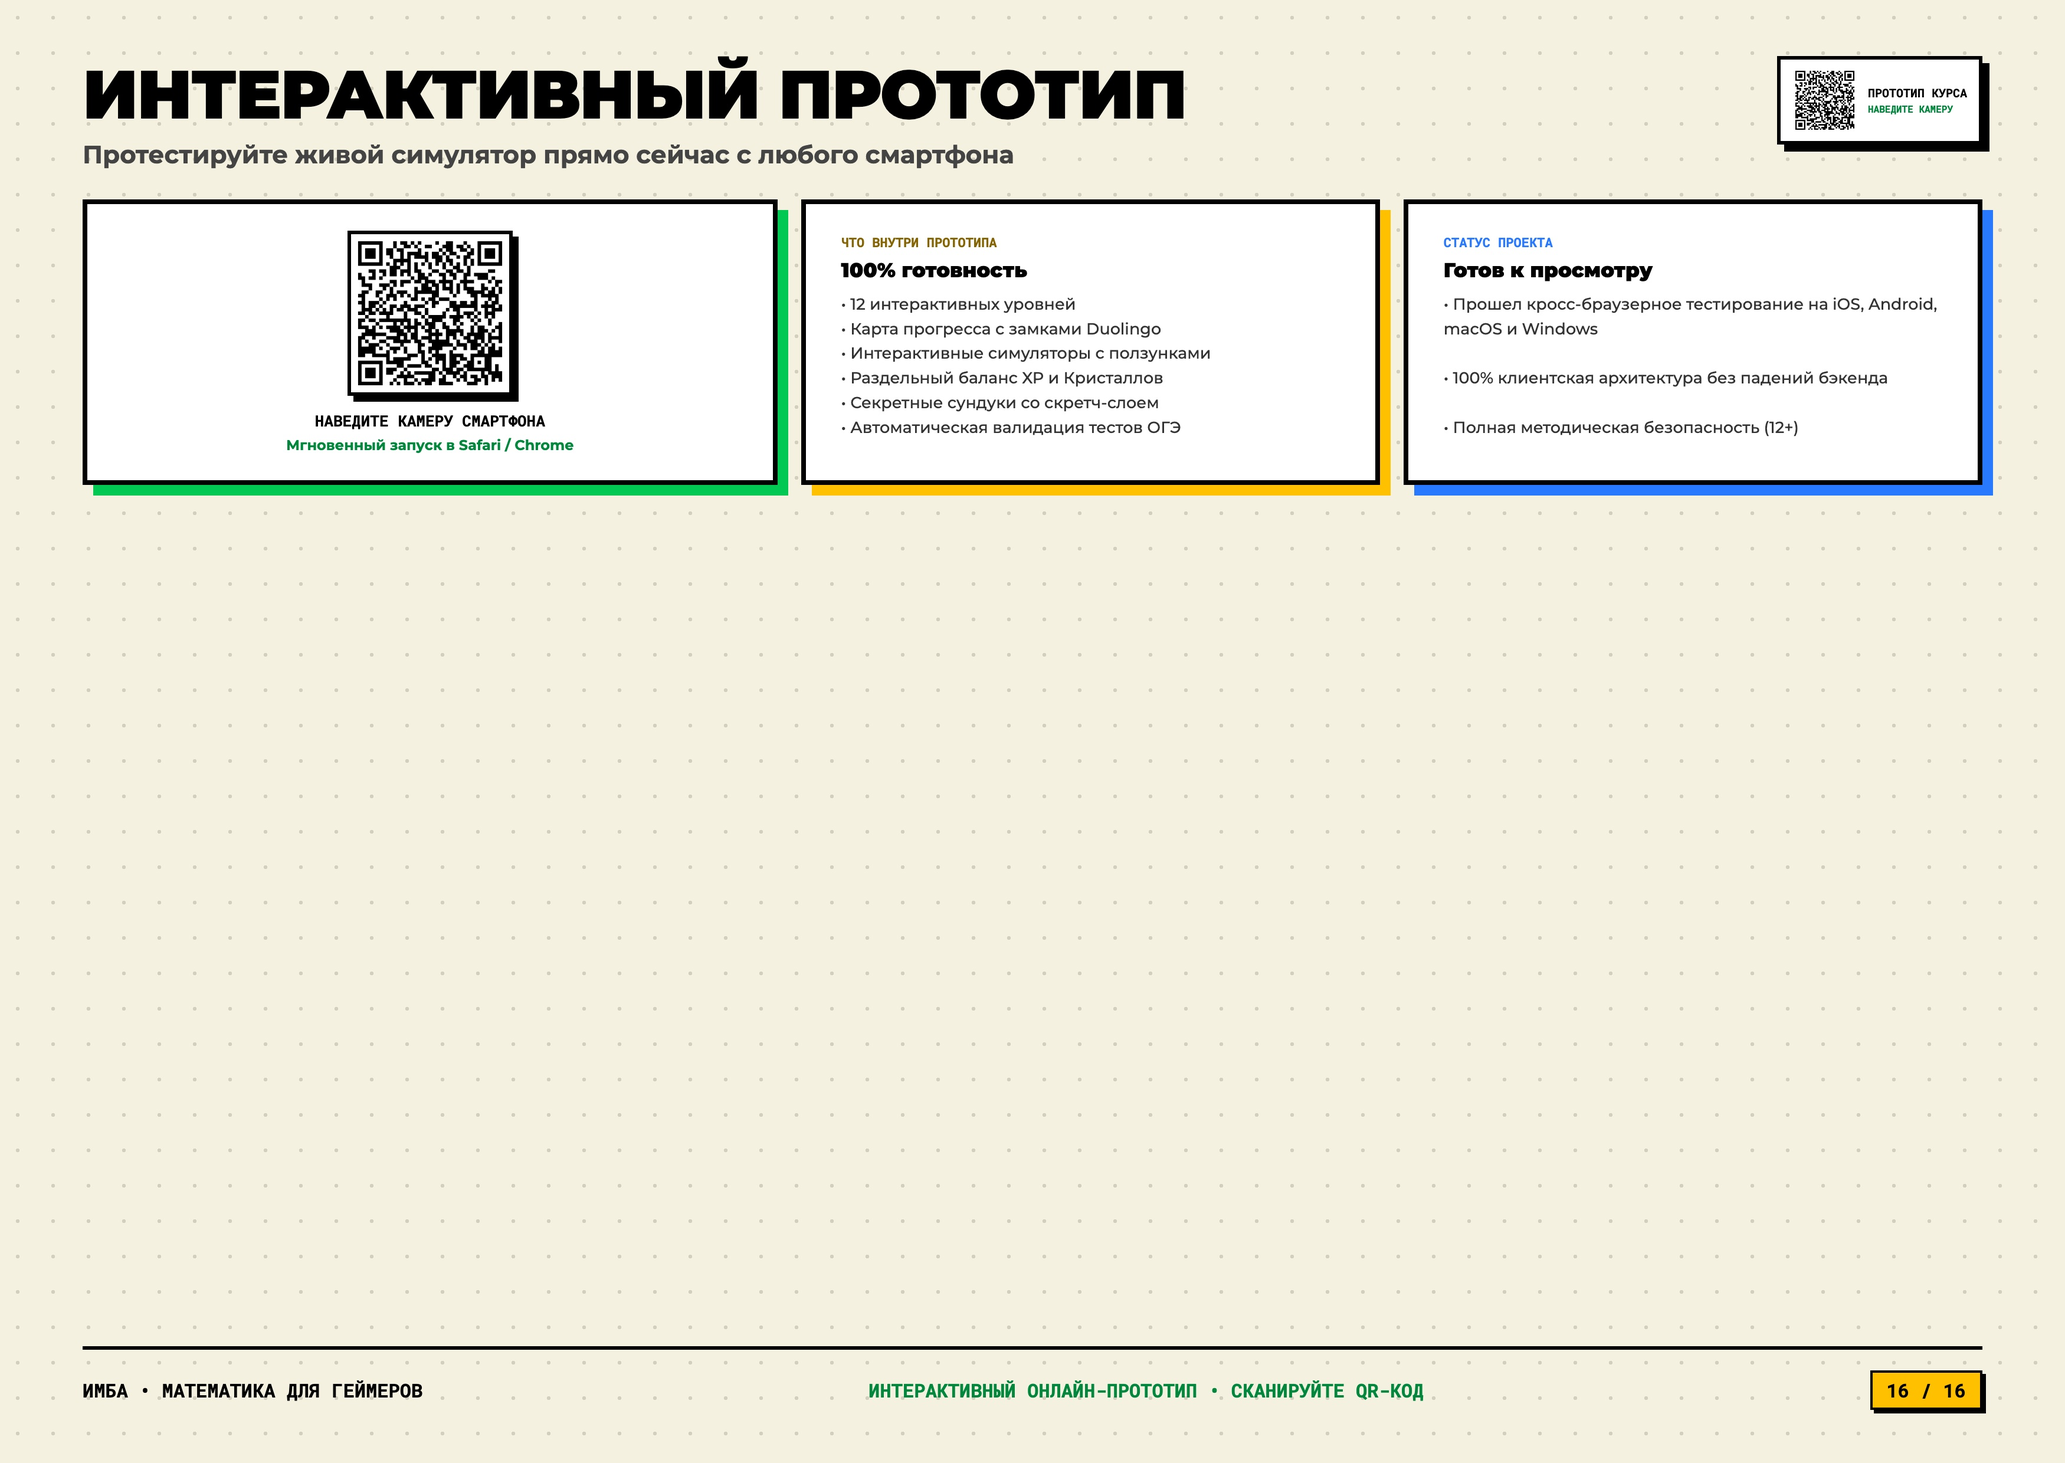
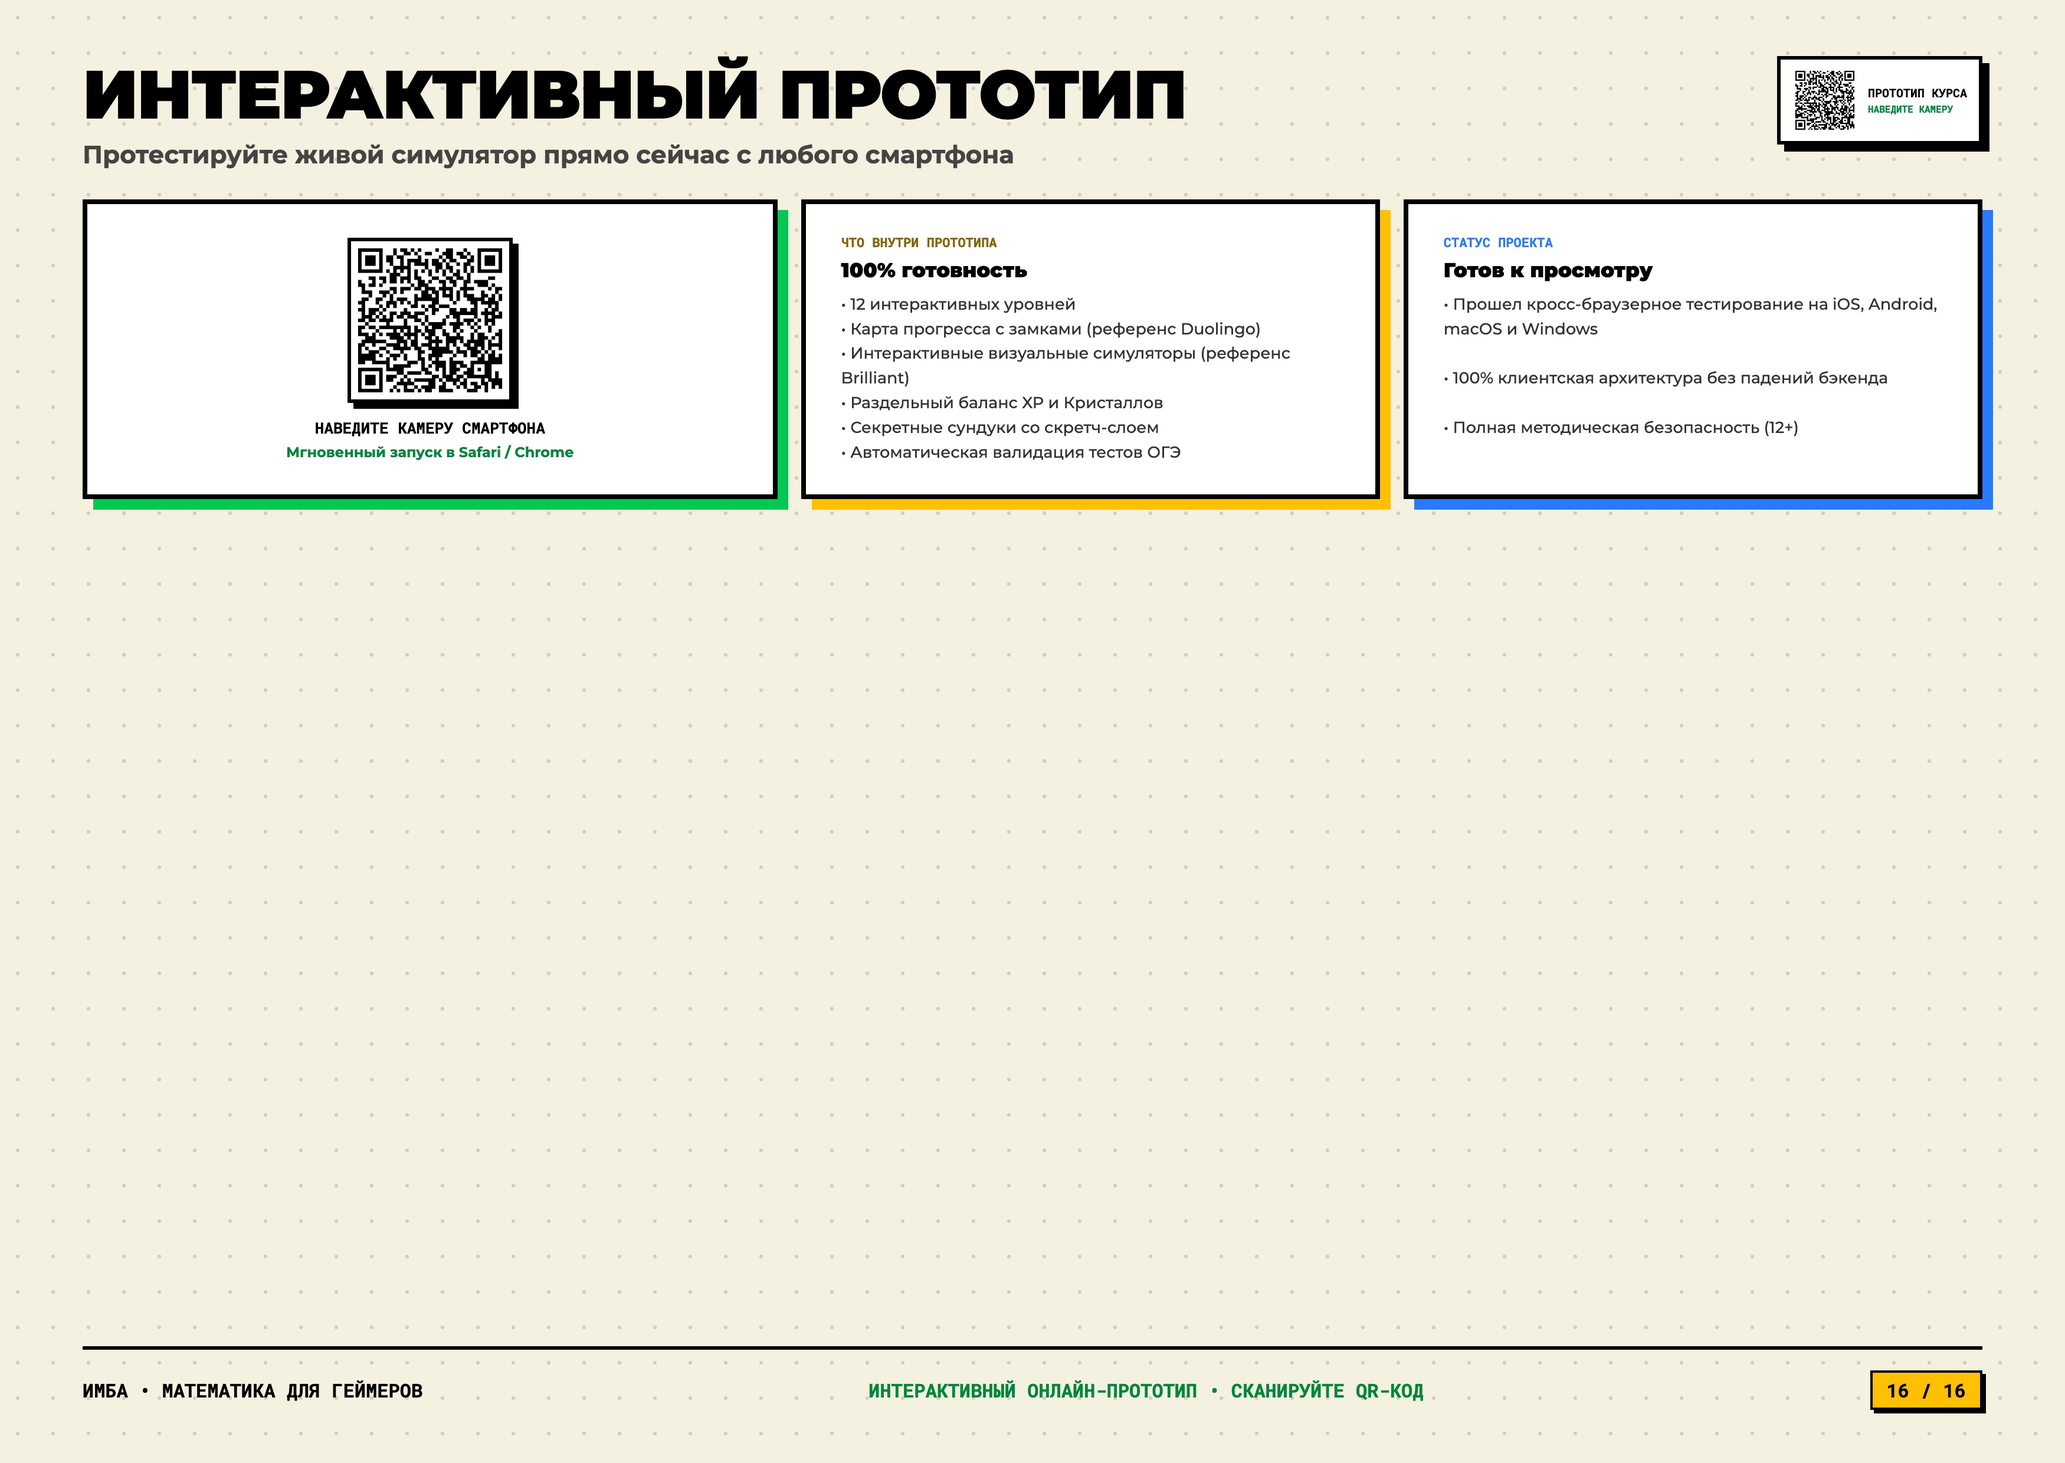
fix: strictly separate references (Duolingo & Brilliant) from pedagogical methodology

Changed region(s): [[0.0311, 0.1552, 0.9654, 0.3726]]

diff --git a/SPEAKER_GUIDE.md b/SPEAKER_GUIDE.md
@@ -10,8 +10,8 @@
 > *Альтернатива:* **ИМБА — математика и экономика для геймеров (ОГЭ)** *(51 символ)*
 
 ### Поле «Описание проекта» (лимит строго от 200 до 400 символов):
-> «ИМБА — образовательный веб-тренажер для подготовки к ОГЭ по математике через разбор скрытых алгоритмов видеоигр (лутбоксы, крафт, рейды). Проект выполнен в эстетике нео-брутализма с контрастной функциональной палитрой. Методология опирается на референсы Duolingo (геймификация и путь прогресса) и Brilliant (интерактивные симуляции). Включает 12 интерактивных уровней и веб-прототип.»  
-> *(Длина: ровно 388 символов с пробелами — строго попадает в диапазон 200–400 символов).*
+> «ИМБА — образовательный веб-тренажер для подготовки к ОГЭ по математике через разбор скрытых алгоритмов видеоигр (лутбоксы, крафт, рейды). Проект выполнен в эстетике нео-брутализма. В основе методики — игровой реверс-инжиниринг и деятельностное обучение. В качестве продуктовых референсов взяты Duolingo (геймификация) и Brilliant (интерактивные симуляции). Включает 12 модулей и веб-прототип.»  
+> *(Длина: ровно **392 символа** с пробелами — строго попадает в лимит 200–400 символов).*
 
 ### Поле «Выберите теги»:
 * Образовательный дизайн
@@ -33,7 +33,7 @@
 * **Главный тезис:** Математика как легальный чит-код и инструмент победы в играх, а не школьная повинность.
 * **Ключевые тезисы:**
   * Веб-практикум для 7–9 классов: деконструкция алгоритмов популярных игр (лутбоксы, крафт, рейды, баллистика) для органичной подготовки к ОГЭ.
-  * Референсы: Duolingo (геймификация и трекинг) и Brilliant (интерактивные визуальные симуляции).
+  * Продуктовые референсы: Duolingo (геймификация и путь прогресса) и Brilliant (визуальные интерактивные симуляторы).
   * Масштаб: 3 раздела, 12 интерактивных модулей, 100% практический формат в браузере.
 * **Что показывать / Артефакт:** В правом верхнем углу расположен QR-код — предложить комиссии навести камеру смартфона, чтобы открыть живой симулятор во время доклада.
 
@@ -49,13 +49,13 @@
 
 ---
 
-### СЛАЙД 03: Референсы и методология
-* **Главный тезис:** Синергия лучших мировых практик Duolingo и Brilliant в нео-бруталистской эстетике.
+### СЛАЙД 03: Продуктовые референсы
+* **Главный тезис:** Анализ лучших мировых практик EdTech: геймификация Duolingo и визуальные симуляции Brilliant.
 * **Ключевые тезисы:**
   * Референс Duolingo: изометрическая карта прогресса, последовательное открытие уровней замками, раздельные валюты XP и Кристаллы.
-  * Референс Brilliant: отказ от пассивных видеолекций в пользу прямого манипулирования интерактивными объектами и вывода правил своими руками.
+  * Референс Brilliant: отказ от пассивных видеолекций — обучение через интерактивные стенды с прямым манипулированием объектами.
   * Стилистика Neobrutalism: высокий контраст, черные рамки 8px, жесткие тени 18px, функциональная цветовая кодировка разделов без визуального шума.
-* **Что показывать / Артефакт:** Карточки методологического переноса механик Duolingo и Brilliant в образовательный продукт.
+* **Что показывать / Артефакт:** Карточки продуктового анализа механик Duolingo и Brilliant.
 
 ---
 
@@ -112,14 +112,14 @@
 
 ---
 
-### СЛАЙД 09: Педагогический цикл урока
-* **Главный тезис:** 4-шаговый сценарий каждого модуля: от игрового азарта к безошибочному решению ОГЭ.
+### СЛАЙД 09: Педагогическая методология
+* **Главный тезис:** Методология: игровой реверс-инжиниринг и 4-шаговый цикл деятельностного обучения.
 * **Ключевые тезисы:**
-  * Шаг 1 (Опыт / Дилемма): провокационный кейс: «Слил 10 кейсов без ножа. В чем обман?» Без заумной теории.
-  * Шаг 2 (Стекло / Модель): разбор скрытого алгоритма разработчиков: формула вероятности и матожидание.
-  * Шаг 3 (Действие / Симулятор): интерактивный ползунок шанса и симуляция 1 000 дропов с динамическим графиком.
-  * Шаг 4 (Закрепление / ОГЭ): решение реальной задачи экзамена без подсказок, автоматическая проверка и награда XP/Gems.
-* **Что показывать / Артефакт:** Схема 4 тактов урока (Опыт → Формула → Симулятор → ОГЭ).
+  * Шаг 1 (Опыт / Игровая дилемма): провокационный кейс: «Слил 10 кейсов без ножа. В чем обман?» Без заумной теории на старте.
+  * Шаг 2 (Деконструкция / Модель): разбор скрытого алгоритма разработчиков: формула вероятности и матожидание.
+  * Шаг 3 (Действие / Эксперимент): интерактивный ползунок шанса и симуляция 1 000 дропов с динамическим графиком сходимости.
+  * Шаг 4 (Валидация / ОГЭ): решение реальной задачи экзамена без подсказок, автоматическая проверка и награда XP/Gems.
+* **Что показывать / Артефакт:** Схема 4 тактов деятельностного цикла (Опыт → Деконструкция → Эксперимент → Валидация).
 
 ---
 
@@ -137,9 +137,9 @@
 * **Главный тезис:** Удержание внимания через петли обратной связи и тактильный дофамин.
 * **Ключевые тезисы:**
   * Раздельный баланс: XP за шаги повышает ранг; Кристаллы начисляются только за безошибочные решения тестов ОГЭ.
-  * Навигация и прогресс: изометрический трек с замками, индикатор оставшихся шагов («Шаг 2 из 4») и легкий возврат на карту.
+  * Интерфейс карты: изометрический трек с замками (референс Duolingo), индикатор оставшихся шагов («Шаг 2 из 4») и легкий возврат на карту.
   * Скретч-слой и Диплом: интерактивное стирание фольги сундука курсором или пальцем на Canvas.
-* **Что показывать / Артефакт:** Интерфейсные элементы: карта Duolingo, скретч-полотно на HTML5 Canvas, плашки баланса.
+* **Что показывать / Артефакт:** Интерфейсные элементы: карта курса, скретч-полотно на HTML5 Canvas, плашки баланса.
 
 ---
 
@@ -189,7 +189,7 @@
 ### СЛАЙД 16: Интерактивный прототип (Финальный слайд)
 * **Главный тезис:** Продукт полностью готов к работе и демонстрации прямо сейчас.
 * **Ключевые тезисы:**
-  * Что доступно: все 12 интерактивных уровней, карта Duolingo, симуляторы Brilliant, сундуки и тесты ОГЭ.
+  * Что доступно: все 12 интерактивных уровней, карта прогресса, визуальные симуляторы, сундуки и тесты ОГЭ.
   * Тестирование: валидировано на iOS (Safari), Android (Chrome) и десктопах.
   * Призыв к комиссии: предложить отсканировать большой центральный QR-код на экране и лично пройти симуляцию.
 * **Что показывать / Артефакт:** Центральный QR-код высокого разрешения для мгновенного перехода в рабочий симулятор.
